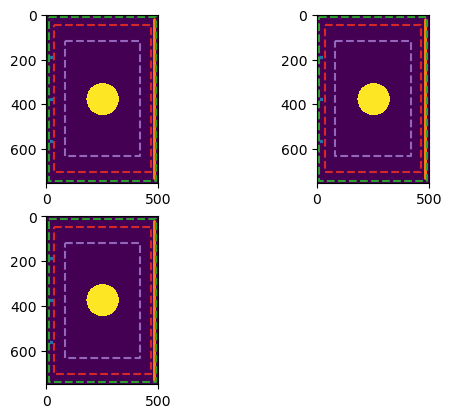
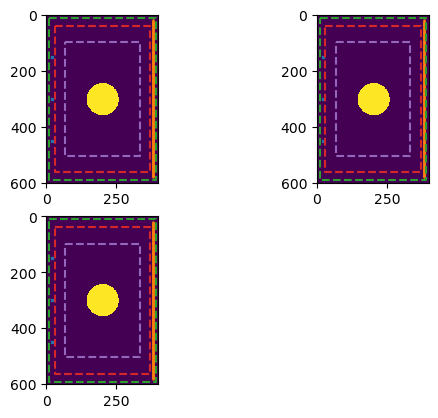
.

diff --git a/scripts/pre_proc_fwi.py b/scripts/pre_proc_fwi.py
@@ -46,7 +46,7 @@ x = 10
 z = 15
 
 # Geometric data
-nt = 4000; nz = 751; nx = 501 # grid numbers (adding for PMLs as well)
+nt = 4000; nz = 601; nx = 401 # grid numbers (adding for PMLs as well)
 dt = 0.94e-5; 
 dz = z/(nz-1) #; 
 dx = x/(nx-1) # grid intervals
